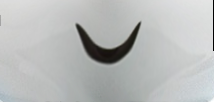
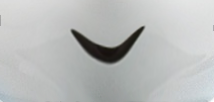
Fix

diff --git a/pepper-mouth/index.html b/pepper-mouth/index.html
@@ -45,7 +45,7 @@
             //----------------------------------------
             socket.on('emotion-out', function(data) {
                 console.log('emotion-out', data);
-                var num = Math.ceil(data * 5);
+                var num = Math.ceil(data * 4);
                 faceChange(num);
                 debug(data + ',' + num);
             });
@@ -58,8 +58,8 @@
 
 
         function faceChange(num){
-            if(num > 5){
-                num = 5;
+            if(num > 6){
+                num = 6;
             }
             if(num < 0){
                 num = 0;
